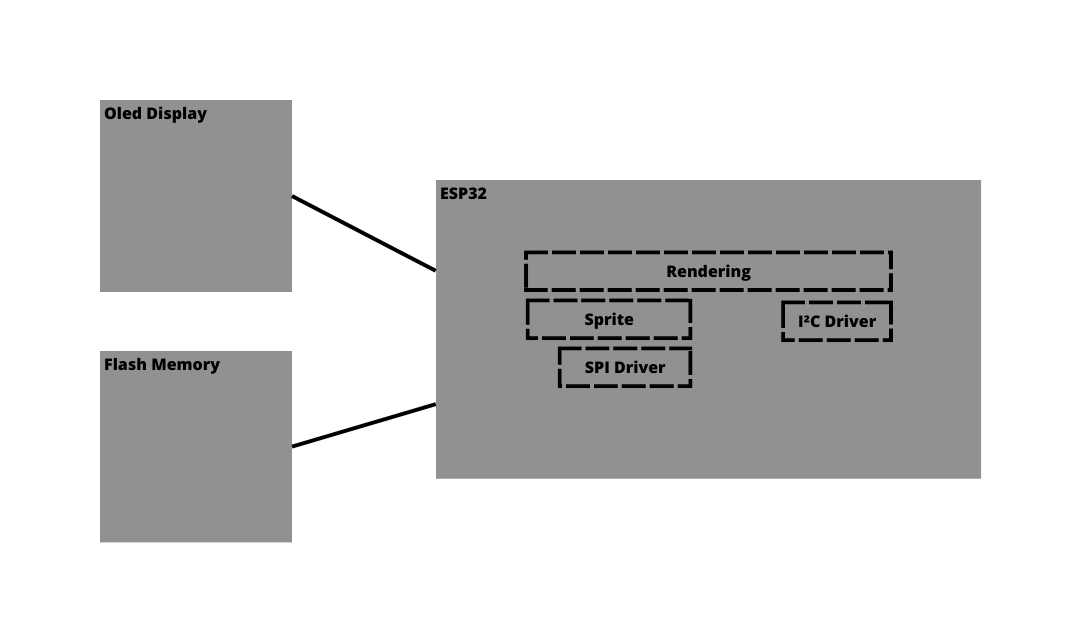
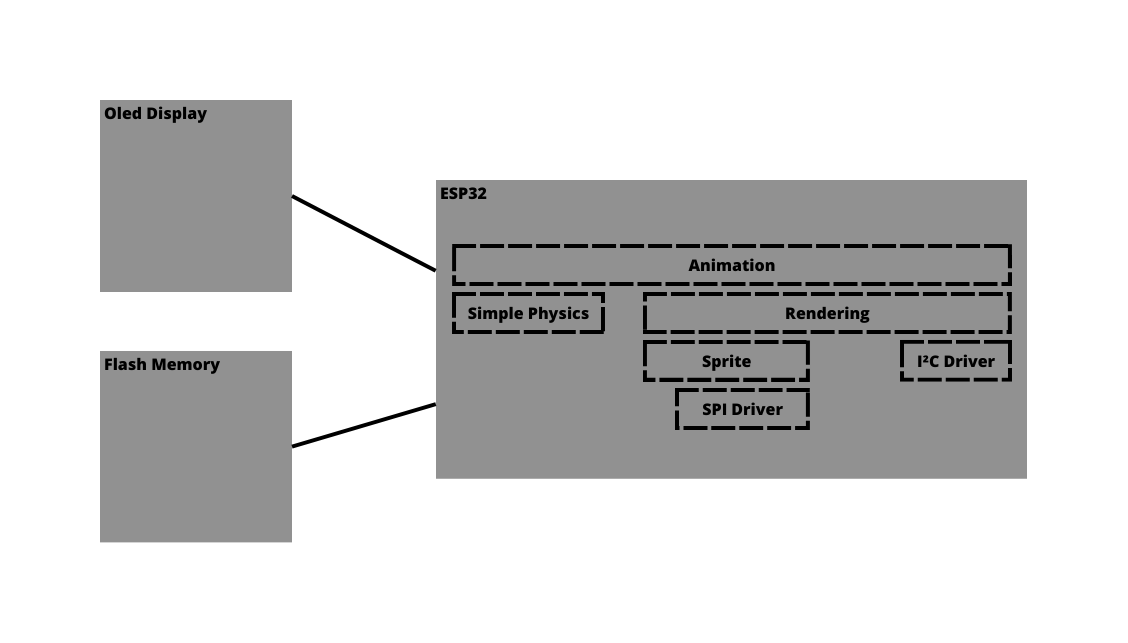
Added Hardware and software diagrams block

diff --git a/README.md b/README.md
@@ -9,3 +9,22 @@ The main animation is a Snake in the display.
 -- Explication about OLed
 
 -- Explication about communication
+
+
+The project Hardware is defined in the next diagram:
+
+<div class="side">
+    <img src="./docs/Hardware_block.png" alt="Hardware Block">
+    <img src="./docs/software_block.png" alt="Software Block">
+</div>
+
+
+<style>
+
+.side {
+    display: flex;
+    grid-template-columns: 1fr 1fr 1fr;
+    column-gap: 20px;
+}
+
+</style>
